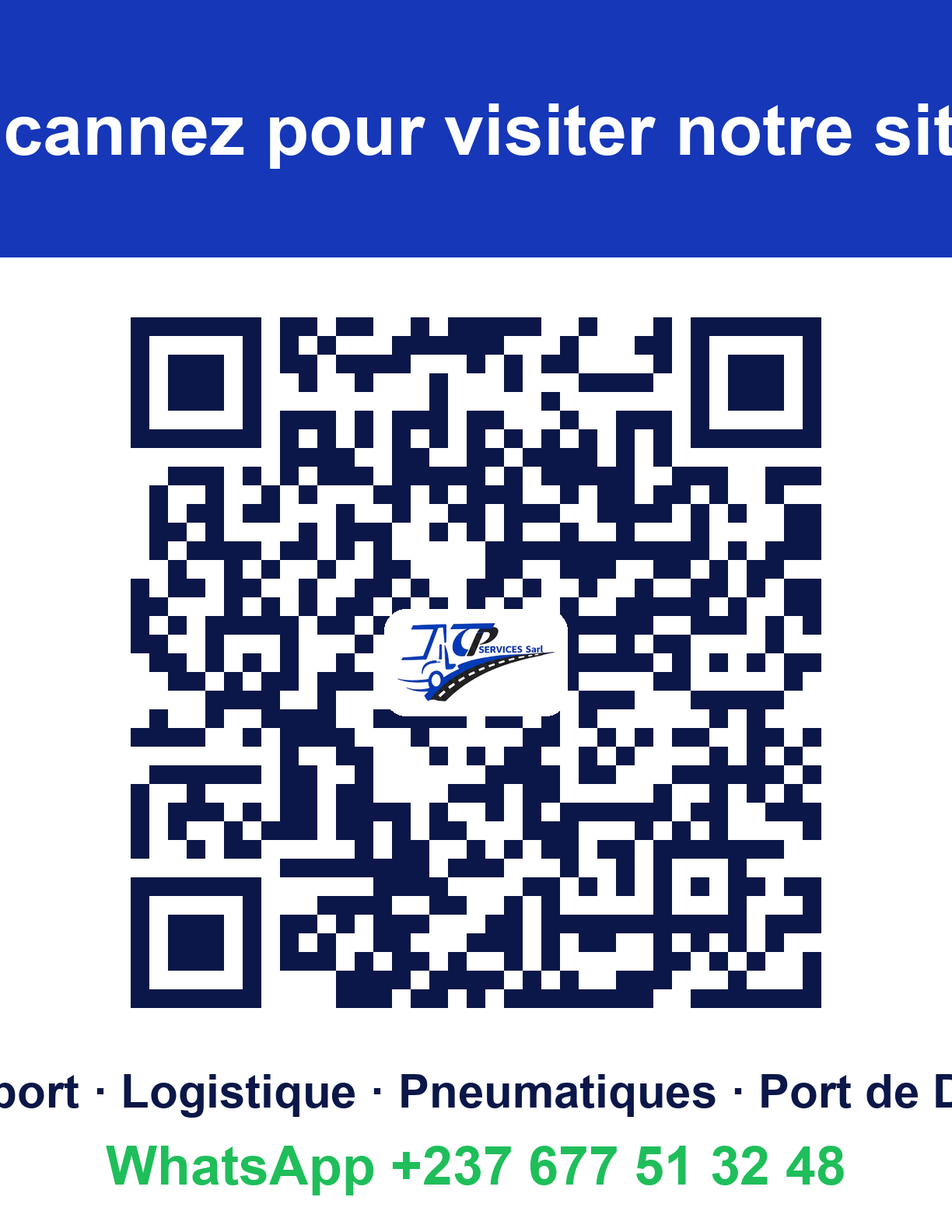
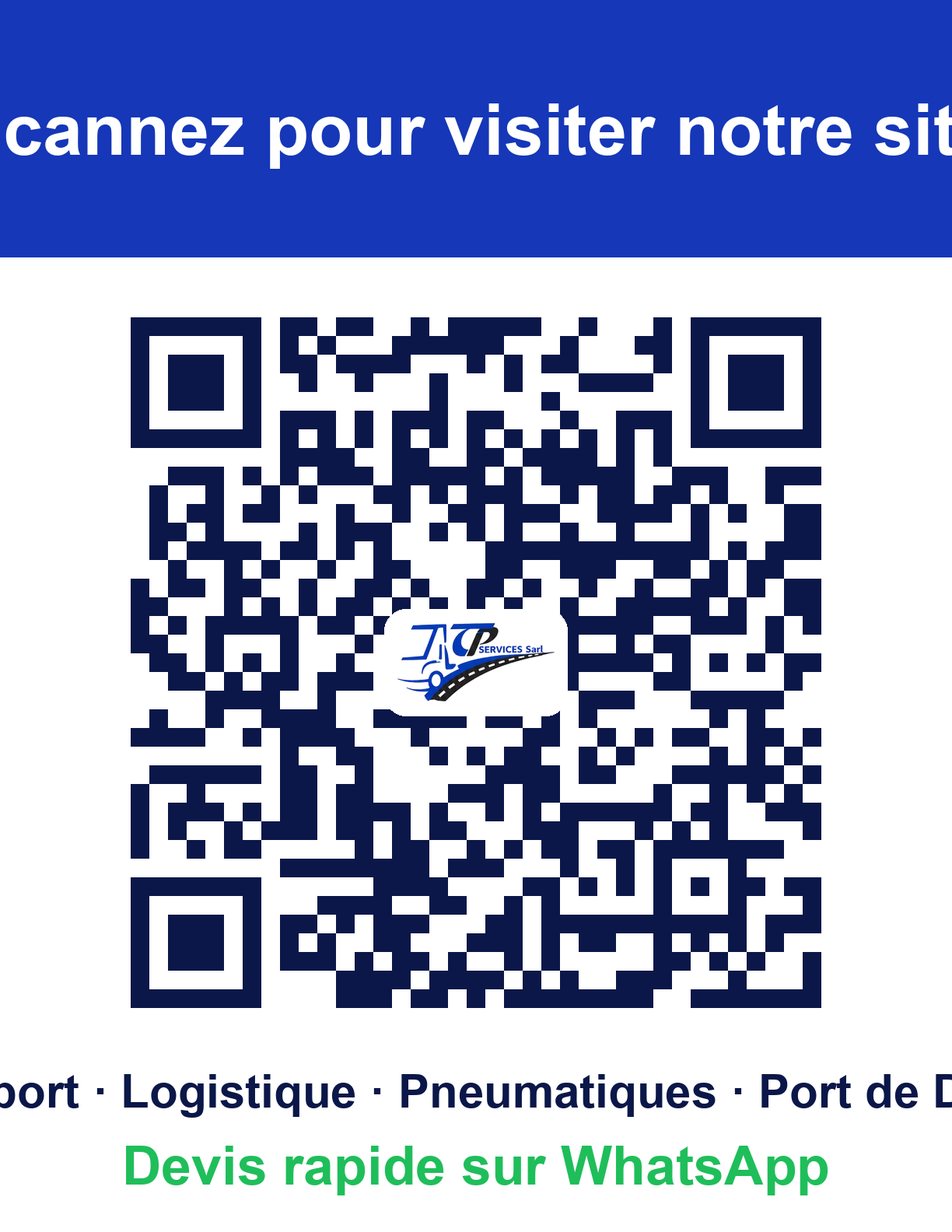
Coordonnées masquées : boutons WhatsApp / Appeler / E-mail (numéros et e-mail assemblés au clic), nouvel e-mail, affiche QR sans numéro

Changed region(s): [[0.0931, 0.928, 0.9003, 0.9899]]

diff --git a/js/assistant.js b/js/assistant.js
@@ -6,12 +6,12 @@ import { BIZ, SERVICES, FAQ, FOUNDER } from "./knowledge.js";
 
 const esc = (s) => String(s).replace(/[&<>"']/g, (c) => ({ "&": "&amp;", "<": "&lt;", ">": "&gt;", '"': "&quot;", "'": "&#39;" }[c]));
 const pick = (a) => a[Math.floor(Math.random() * a.length)];
-const wa = (text) => `https://wa.me/${BIZ.whatsapp}?text=${encodeURIComponent(text)}`;
+
 
 // UI words
 const T = {
-  fr: { waBtn: "Écrire sur WhatsApp", call: "Appeler", mail: "Envoyer un e-mail", map: "Itinéraire", more: "Voir le service", placeholder: "Posez votre question…", title: "Assistant TP & Fils", sub: "Répond tout de suite · FR / EN", note: "Pour un prix exact, nos équipes vous répondent sur WhatsApp ou au téléphone.", fab: "Une question ?", hello: "Bonjour et bienvenue chez <b>TP & Fils Services</b> ! 👋 Pneus, lubrifiants, vidange, garage, transport, camions grue… Je vous oriente. Que puis-je faire pour vous ?" },
-  en: { waBtn: "Message on WhatsApp", call: "Call", mail: "Send an email", map: "Directions", more: "See the service", placeholder: "Ask your question…", title: "TP & Fils Assistant", sub: "Replies instantly · FR / EN", note: "For an exact price, our team answers on WhatsApp or by phone.", fab: "Questions?", hello: "Hello and welcome to <b>TP & Fils Services</b>! 👋 Tires, lubricants, oil changes, garage, transport, crane trucks… I'll point you in the right direction. How can I help?" },
+  fr: { waBtn: "WhatsApp", call: "Appeler", mail: "E-mail", map: "Itinéraire", more: "Voir le service", placeholder: "Posez votre question…", title: "Assistant TP & Fils", sub: "Répond tout de suite · FR / EN", note: "Pour un prix exact, nos équipes vous répondent sur WhatsApp ou au téléphone.", fab: "Une question ?", hello: "Bonjour et bienvenue chez <b>TP & Fils Services</b> ! 👋 Pneus, lubrifiants, vidange, garage, transport, camions grue… Je vous oriente. Que puis-je faire pour vous ?" },
+  en: { waBtn: "WhatsApp", call: "Call", mail: "Email", map: "Directions", more: "See the service", placeholder: "Ask your question…", title: "TP & Fils Assistant", sub: "Replies instantly · FR / EN", note: "For an exact price, our team answers on WhatsApp or by phone.", fab: "Questions?", hello: "Hello and welcome to <b>TP & Fils Services</b>! 👋 Tires, lubricants, oil changes, garage, transport, crane trucks… I'll point you in the right direction. How can I help?" },
 };
 const CHIPS = {
   fr: { start: ["Nos services", "Prix des pneus", "Location camion grue", "Où êtes-vous ?", "Horaires"], after: ["Demander un devis", "Où êtes-vous ?", "Nos services"] },
@@ -20,7 +20,7 @@ const CHIPS = {
 
 const contactBtns = (L, topic) => {
   const msg = L === "fr" ? `Bonjour TP & Fils, je vous contacte depuis votre site web${topic ? ` au sujet de : ${topic}` : ""}.` : `Hello TP & Fils, I'm reaching out from your website${topic ? ` about: ${topic}` : ""}.`;
-  return `<div class="chat-actions"><a class="chat-btn chat-btn--wa" href="${wa(msg)}" target="_blank" rel="noopener">${T[L].waBtn}</a><a class="chat-btn chat-btn--ghost" href="tel:${BIZ.phones[0].tel}">${T[L].call}</a></div>`;
+  return `<div class="chat-actions"><a class="chat-btn chat-btn--wa" href="#contact" data-contact="wa" data-msg="${esc(msg)}">${T[L].waBtn}</a><a class="chat-btn chat-btn--ghost" href="#contact" data-contact="call">${T[L].call}</a><a class="chat-btn chat-btn--ghost" href="#contact" data-contact="mail">${T[L].mail}</a></div>`;
 };
 const svcName = (s, L) => s[L].name;
 
@@ -58,7 +58,7 @@ const INTENTS = [
   { id: "hours", re: /\b(horaires?|heures?|ouvert\w*|ferm\w*|hours?|open\w*|clos\w*|samedi|dimanche|saturday|sunday|week-?end|aujourd'hui|today|demain|tomorrow)\b/, w: 3,
     a: (L) => `${esc(BIZ.hours[L])}. ${L === "fr" ? "En dehors de ces heures ou en cas d'urgence, appelez-nous ou laissez un message WhatsApp." : "Outside these hours or in an emergency, call us or leave a WhatsApp message."}${contactBtns(L)}` },
   { id: "contact", re: /\b(contact\w*|t[ée]l[ée]phone|phone|num[ée]ro|number|appeler|call|joindre|reach|whatsapp|wa|email|e-mail|mail|courriel|joignable)\b/, w: 3,
-    a: (L) => `📞 ${BIZ.phones.map((p) => `<a href="tel:${p.tel}">${p.label}</a>`).join(" · ")}<br>💬 WhatsApp : <a href="${wa(L === "fr" ? "Bonjour TP & Fils" : "Hello TP & Fils")}" target="_blank" rel="noopener">${BIZ.phones.find((p) => p.whatsapp).label}</a><br>✉ <a href="mailto:${BIZ.email}">${BIZ.email}</a>${contactBtns(L)}` },
+    a: (L) => (L === "fr" ? "Le plus rapide, c'est WhatsApp 💬 Vous pouvez aussi nous appeler ou nous écrire un e-mail : touchez un bouton ci-dessous, votre application s'ouvre directement." : "WhatsApp is fastest 💬 You can also call or email us: tap a button below and your app opens directly.") + contactBtns(L) },
   { id: "founder", re: /\b(fondateur|founder|directeur|dg|patron|boss|owner|propri[ée]taire|talla|ceo|pdg|g[ée]rant)\b/, w: 3.2,
     a: (L) => L === "fr" ? `TP & FILS Services SARL a été fondée en ${BIZ.founded} par <b>M. ${FOUNDER.name}</b>, ${FOUNDER.fr.role}. Sous sa direction, l'entreprise est devenue une référence dans le transport, la logistique et les services au Port de Douala. Sa vision : un partenaire de confiance qui gère tout sous un même toit, des pneumatiques jusqu'au dédouanement.` : `TP & FILS Services SARL was founded in ${BIZ.founded} by <b>Mr. ${FOUNDER.name}</b>, ${FOUNDER.en.role}. Under his leadership, the company has become a reference in transport, logistics and services at the Port of Douala. His vision: a trusted partner that handles everything under one roof, from tires to customs clearance.` },
   { id: "about", re: /\b(qui (êtes|etes)|about|histoire|history|depuis|since|founded|cr[ée][ée]e?|fond[ée]e?|entreprise|company|employ[ée]s|staff|exp[ée]rience)\b/, w: 2.2,
@@ -68,7 +68,7 @@ const INTENTS = [
   { id: "pay", re: /\b(paiement|payer|payment|pay|mobile money|momo|orange money|om|esp[eè]ces|cash|carte|card|ch[eè]que|virement|transfer|cr[ée]dit|facture|invoice)\b/, w: 2.6,
     a: (L) => (L === "fr" ? "Pour les moyens de paiement et la facturation (particuliers comme entreprises), le plus simple est de voir directement avec nos équipes : elles vous confirment tout rapidement." : "For payment methods and invoicing (individuals or companies), it's easiest to check directly with our team: they'll confirm everything quickly.") + contactBtns(L, L === "fr" ? "le paiement" : "payment") },
   { id: "jobs", re: /\b(emploi|recrut\w*|job|jobs|travail|stage|internship|cv|candidature|hiring|career|carri[eè]re|postuler|apply)\b/, w: 3,
-    a: (L) => L === "fr" ? `Merci de votre intérêt pour TP & Fils ! Envoyez votre CV et une lettre de motivation à <a href="mailto:${BIZ.email}?subject=Candidature">${BIZ.email}</a>, en précisant le poste visé (mécanicien, chauffeur, etc.).` : `Thanks for your interest in TP & Fils! Send your CV and a cover letter to <a href="mailto:${BIZ.email}?subject=Job%20application">${BIZ.email}</a>, stating the role you're interested in (mechanic, driver, etc.).` },
+    a: (L) => L === "fr" ? `Merci de votre intérêt pour TP & Fils ! Envoyez votre CV et une lettre de motivation par e-mail, en précisant le poste visé (mécanicien, chauffeur, etc.).<div class="chat-actions"><a class="chat-btn" href="#contact" data-contact="mail" data-subject="Candidature">Envoyer ma candidature</a></div>` : `Thanks for your interest in TP & Fils! Send your CV and a cover letter by email, stating the role you're interested in (mechanic, driver, etc.).<div class="chat-actions"><a class="chat-btn" href="#contact" data-contact="mail" data-subject="Job application">Send my application</a></div>` },
   { id: "urgent", re: /\b(urgent\w*|urgence|emergency|vite|asap|maintenant|right now|bloqu[ée]|stuck|en panne|broke down|crev[ée]|flat)\b/, w: 3.2,
     a: (L) => (L === "fr" ? "Pas de panique, on est là 🙏 Appelez-nous directement ou écrivez sur WhatsApp en indiquant votre véhicule, le problème et votre position : nos équipes voient ce qu'elles peuvent faire au plus vite." : "Don't worry, we're here 🙏 Call us directly or message us on WhatsApp with your vehicle, the problem and your location: our team will see what they can do as fast as possible.") + contactBtns(L, L === "fr" ? "une urgence" : "an emergency") },
 ];

diff --git a/index.html b/index.html
@@ -23,9 +23,9 @@
   <!-- top strip: phones, email, hours -->
   <div class="topstrip">
     <div class="wrap topstrip__in">
-      <a href="https://wa.me/237677513248" target="_blank" rel="noopener">💬 WhatsApp +237 677 51 32 48</a>
-      <a href="tel:+237679575821" class="hide-sm">📞 +237 679 57 58 21</a>
-      <a href="mailto:tpfilsservices@gmail.com" class="hide-sm">✉ tpfilsservices@gmail.com</a>
+      <a href="#contact" data-contact="wa" data-i18n="top_wa">💬 WhatsApp</a>
+      <a href="#contact" data-contact="call">📞 <span data-i18n="top_call">Appeler</span></a>
+      <a href="#contact" data-contact="mail" class="hide-sm">✉ <span data-i18n="top_mail">E-mail</span></a>
       <span class="hide-xs" id="topHours">🕗 Lun – Ven 8h–18h · Sam 9h–16h</span>
     </div>
   </div>
@@ -43,7 +43,7 @@
       <div class="lang" role="group" aria-label="Langue / Language">
         <button data-lang="fr" class="is-on">FR</button><button data-lang="en">EN</button>
       </div>
-      <a class="btn btn--wa nav__cta" id="navWa" target="_blank" rel="noopener" data-i18n="cta_quote">Demander un devis</a>
+      <a class="btn btn--wa nav__cta" id="navWa" href="#contact" data-contact="wa" data-i18n="cta_quote">Demander un devis</a>
       <button class="nav__toggle" id="navToggle" aria-label="Menu"><span></span><span></span></button>
     </div>
   </header>
@@ -64,8 +64,8 @@
         <h1 data-i18n-html="hero_title">Votre partenaire de confiance,<br /><span>plus qu'un service, une solution.</span></h1>
         <p class="lead" data-i18n="hero_lead">Depuis 2014 au Port de Douala : transport routier national et international, logistique et entreposage, dédouanement, et spécialiste en pneumatique pour véhicules légers et poids lourds.</p>
         <div class="hero__ctas">
-          <a class="btn btn--wa btn--lg" id="heroWa" target="_blank" rel="noopener"><svg viewBox="0 0 24 24" aria-hidden="true"><path fill="currentColor" d="M12 2a10 10 0 0 0-8.6 15.1L2 22l5-1.3A10 10 0 1 0 12 2zm0 18.2c-1.5 0-3-.4-4.3-1.2l-.3-.2-3 .8.8-2.9-.2-.3A8.2 8.2 0 1 1 12 20.2zm4.5-6.1c-.2-.1-1.5-.7-1.7-.8-.2-.1-.4-.1-.6.1-.2.2-.7.8-.8 1-.1.2-.3.2-.5.1a6.7 6.7 0 0 1-3.3-2.9c-.3-.4.3-.4.8-1.4.1-.2 0-.3 0-.4l-.8-1.8c-.2-.5-.4-.4-.6-.4h-.5c-.2 0-.4.1-.6.3-.2.2-.8.8-.8 2s.8 2.3.9 2.5c.1.2 1.6 2.5 3.9 3.5 1.5.6 2 .7 2.7.6.4-.1 1.5-.6 1.7-1.2.2-.6.2-1.1.1-1.2l-.5-.3z"/></svg><span data-i18n="cta_wa">Écrire sur WhatsApp</span></a>
-          <a class="btn btn--light btn--lg" href="tel:+237677513248" data-i18n="cta_call">Appeler maintenant</a>
+          <a class="btn btn--wa btn--lg" id="heroWa" href="#contact" data-contact="wa"><svg viewBox="0 0 24 24" aria-hidden="true"><path fill="currentColor" d="M12 2a10 10 0 0 0-8.6 15.1L2 22l5-1.3A10 10 0 1 0 12 2zm0 18.2c-1.5 0-3-.4-4.3-1.2l-.3-.2-3 .8.8-2.9-.2-.3A8.2 8.2 0 1 1 12 20.2zm4.5-6.1c-.2-.1-1.5-.7-1.7-.8-.2-.1-.4-.1-.6.1-.2.2-.7.8-.8 1-.1.2-.3.2-.5.1a6.7 6.7 0 0 1-3.3-2.9c-.3-.4.3-.4.8-1.4.1-.2 0-.3 0-.4l-.8-1.8c-.2-.5-.4-.4-.6-.4h-.5c-.2 0-.4.1-.6.3-.2.2-.8.8-.8 2s.8 2.3.9 2.5c.1.2 1.6 2.5 3.9 3.5 1.5.6 2 .7 2.7.6.4-.1 1.5-.6 1.7-1.2.2-.6.2-1.1.1-1.2l-.5-.3z"/></svg><span data-i18n="cta_wa">Écrire sur WhatsApp</span></a>
+          <a class="btn btn--light btn--lg" href="#contact" data-contact="call" data-i18n="cta_call">Appeler maintenant</a>
         </div>
         <ul class="hero__stats">
           <li><b>2014</b><span data-i18n="stat_year">au service de Douala</span></li>
@@ -100,7 +100,7 @@
           <li data-i18n="feat_li3">Stockage, entreposage & distribution</li>
           <li data-i18n="feat_li4">Dédouanement & camions grue Hiab</li>
         </ul>
-        <a class="btn btn--wa" id="featWa" target="_blank" rel="noopener" data-i18n="feat_cta">Organiser un transport</a>
+        <a class="btn btn--wa" id="featWa" href="#contact" data-contact="wa" data-i18n="feat_cta">Organiser un transport</a>
       </div>
     </section>
 
@@ -142,8 +142,8 @@
           <p data-i18n="biz_body">Entretien de flotte, pneumatiques poids lourds, lubrifiants, levage, transport de marchandises et prestations industrielles : nous construisons une solution adaptée à votre activité.</p>
         </div>
         <div class="biz__cta">
-          <a class="btn btn--wa btn--lg" id="bizWa" target="_blank" rel="noopener" data-i18n="biz_cta">Discuter de mon projet</a>
-          <a class="btn btn--ghost-light" href="mailto:tpfilsservices@gmail.com?subject=Demande%20entreprise" data-i18n="biz_mail">Écrire un e-mail</a>
+          <a class="btn btn--wa btn--lg" id="bizWa" href="#contact" data-contact="wa" data-i18n="biz_cta">Discuter de mon projet</a>
+          <a class="btn btn--ghost-light" href="#contact" data-contact="mail" data-subject="Demande entreprise" data-i18n="biz_mail">Écrire un e-mail</a>
         </div>
       </div>
     </section>
@@ -202,9 +202,18 @@
           <h2 data-i18n="contact_title">Passez nous voir au Port de Douala</h2>
           <ul class="clist">
             <li><span>📍</span><div><b data-i18n="c_addr">Adresse</b><a id="cAddr" target="_blank" rel="noopener"></a><small>BP 4511 Douala, Littoral, Cameroun</small></div></li>
-            <li><span>💬</span><div><b>WhatsApp</b><a href="https://wa.me/237677513248" target="_blank" rel="noopener">+237 677 51 32 48</a></div></li>
-            <li><span>📞</span><div><b data-i18n="c_phone">Téléphone</b><a href="tel:+237677513248">+237 677 51 32 48</a><a href="tel:+237679575821">+237 679 57 58 21</a><a href="tel:+237697144397">+237 697 14 43 97</a><a href="tel:+237699517407">+237 699 51 74 07</a></div></li>
-            <li><span>✉</span><div><b>E-mail</b><a href="mailto:tpfilsservices@gmail.com">tpfilsservices@gmail.com</a></div></li>
+            <li><span>📲</span><div><b data-i18n="c_reach">Nous joindre</b>
+              <div class="cbtns">
+                <button class="btn btn--wa btn--sm" data-contact="wa" data-i18n="c_wa">WhatsApp</button>
+                <button class="btn btn--light btn--sm" data-contact="call" data-i18n="c_call">Appeler</button>
+                <button class="btn btn--light btn--sm" data-contact="mail" data-i18n="c_mail">E-mail</button>
+              </div>
+              <details class="lines"><summary data-i18n="c_lines">Autres lignes</summary><div class="cbtns">
+                <button class="btn btn--light btn--sm" data-contact="call" data-line="1"><span data-i18n="c_line">Ligne</span> 2</button>
+                <button class="btn btn--light btn--sm" data-contact="call" data-line="2"><span data-i18n="c_line">Ligne</span> 3</button>
+                <button class="btn btn--light btn--sm" data-contact="call" data-line="3"><span data-i18n="c_line">Ligne</span> 4</button>
+              </div></details>
+            </div></li>
             <li><span>🕗</span><div><b data-i18n="c_hours">Horaires</b><span id="cHours"></span></div></li>
           </ul>
           <div class="socials" id="socials"></div>
@@ -229,7 +238,7 @@
     <div class="wrap footer__in">
       <div class="footer__brand"><img src="assets/img/logo-tp-services-sm.png" alt="TP & FILS Services SARL" /><p class="footer__motto" data-i18n="f_motto">Toujours plus loin avec vous !</p><p data-i18n="f_slogan">Toujours à votre écoute pour une meilleure qualité de service.</p></div>
       <div><b data-i18n="f_services">Services</b><ul id="footServices"></ul></div>
-      <div><b>Contact</b><ul><li><a href="https://wa.me/237677513248" target="_blank" rel="noopener">WhatsApp +237 677 51 32 48</a></li><li><a href="tel:+237679575821">+237 679 57 58 21</a></li><li><a href="tel:+237697144397">+237 697 14 43 97</a></li><li><a href="mailto:tpfilsservices@gmail.com">tpfilsservices@gmail.com</a></li><li>BP 4511 Douala</li></ul></div>
+      <div><b>Contact</b><ul><li><a href="#contact" data-contact="wa">💬 WhatsApp</a></li><li><a href="#contact" data-contact="call">📞 <span data-i18n="c_call">Appeler</span></a></li><li><a href="#contact" data-contact="mail">✉ <span data-i18n="c_mail">E-mail</span></a></li><li>BP 4511 Douala</li></ul></div>
     </div>
     <div class="wrap footer__bottom">
       <span>© <span id="year"></span> TP & FILS Services SARL · Douala, Cameroun</span>

diff --git a/js/main.js b/js/main.js
@@ -1,15 +1,15 @@
 // Construit la page à partir de knowledge.js, gère FR/EN, le formulaire de devis (WhatsApp), le menu et l'assistant.
 import { BIZ, SERVICES, WHY, FAQ, FOUNDER, GALLERY } from "./knowledge.js";
 import { mountAssistant } from "./assistant.js";
+import { openContact } from "./contact.js";
 
 const $ = (id) => document.getElementById(id);
 const esc = (s) => String(s).replace(/[&<>"']/g, (c) => ({ "&": "&amp;", "<": "&lt;", ">": "&gt;", '"': "&quot;", "'": "&#39;" }[c]));
-const wa = (text) => `https://wa.me/${BIZ.whatsapp}?text=${encodeURIComponent(text)}`;
 
 // ---------------------------------------------------------------- translations (FR is the page's default text)
 const I18N = {
   en: {
-    nav_services: "Services", nav_why: "Why us", nav_gallery: "Gallery", hero_real: "Our real trucks, our real premises", gal_kicker: "Our facilities", gal_title: "On the ground, at the Port of Douala", gal_sub: "Our trucks, our tire workshop, our lubricants and our premises: what you'll find when you visit us.", nav_biz: "Businesses", nav_about: "About", nav_contact: "Contact", cta_quote: "Get a quote",
+    top_wa: "💬 WhatsApp", top_call: "Call", top_mail: "Email", c_reach: "Reach us", c_wa: "WhatsApp", c_call: "Call", c_mail: "Email", c_lines: "Other lines", c_line: "Line", nav_services: "Services", nav_why: "Why us", nav_gallery: "Gallery", hero_real: "Our real trucks, our real premises", gal_kicker: "Our facilities", gal_title: "On the ground, at the Port of Douala", gal_sub: "Our trucks, our tire workshop, our lubricants and our premises: what you'll find when you visit us.", nav_biz: "Businesses", nav_about: "About", nav_contact: "Contact", cta_quote: "Get a quote",
     hero_pill: "Transport · Logistics · Business services",
     hero_title: "Your trusted partner,<br /><span>more than a service, a solution.</span>",
     hero_lead: "At the Port of Douala since 2014: national and international road freight, logistics and warehousing, customs clearance, and tire specialists for cars and heavy trucks.",
@@ -99,8 +99,8 @@ function render() {
   $("topHours").textContent = `🕗 ${BIZ.hoursShort[L]}`;
   $("gallery").innerHTML = GALLERY.map((g, i) => `<button class="gal ${i === 0 ? "gal--big" : ""}" data-gal="${i}"><img src="assets/img/${g.img}" alt="${esc(g[L])}" loading="lazy" /><span>${esc(g[L])}</span></button>`).join("");
   const hello = L === "fr" ? "Bonjour TP & Fils, je souhaite un devis." : "Hello TP & Fils, I'd like a quote.";
-  ["navWa", "heroWa", "bizWa"].forEach((id) => ($(id).href = wa(hello)));
-  $("featWa").href = wa(L === "fr" ? "Bonjour TP & Fils, je souhaite organiser un transport de marchandises." : "Hello TP & Fils, I'd like to arrange a freight shipment.");
+  ["navWa", "heroWa", "bizWa"].forEach((id) => ($(id).dataset.msg = hello));
+  $("featWa").dataset.msg = (L === "fr" ? "Bonjour TP & Fils, je souhaite organiser un transport de marchandises." : "Hello TP & Fils, I'd like to arrange a freight shipment.");
   $("svcCount").textContent = SERVICES.length;
   $("founderRole").textContent = FOUNDER[L].role;
   $("founderText").textContent = FOUNDER[L].text;
@@ -121,7 +121,7 @@ function openService(id) {
   $("svcBody").innerHTML = `<button class="modal__x" data-close aria-label="Fermer">×</button>
     ${s.img ? `<div class="modal__img"><img src="assets/img/${s.img}" alt="" /></div>` : `<div class="modal__img modal__img--icon">${icon(s.icon)}</div>`}
     <div class="modal__copy"><p class="kicker">${L === "fr" ? "Service" : "Service"}</p><h2>${esc(t.name)}</h2><p>${esc(t.body)}</p>
-    <div class="modal__ctas"><a class="btn btn--wa" target="_blank" rel="noopener" href="${wa((L === "fr" ? "Bonjour TP & Fils, je suis intéressé(e) par : " : "Hello TP & Fils, I'm interested in: ") + t.name)}">${L === "fr" ? "Demander un devis" : "Get a quote"}</a><a class="btn btn--light" href="tel:${BIZ.phones[0].tel}">${L === "fr" ? "Appeler" : "Call"}</a></div></div>`;
+    <div class="modal__ctas"><a class="btn btn--wa" href="#contact" data-contact="wa" data-msg="${esc((L === "fr" ? "Bonjour TP & Fils, je suis intéressé(e) par : " : "Hello TP & Fils, I'm interested in: ") + t.name)}">${L === "fr" ? "Demander un devis" : "Get a quote"}</a><a class="btn btn--light" href="#contact" data-contact="call">${L === "fr" ? "Appeler" : "Call"}</a></div></div>`;
   $("svcModal").showModal();
 }
 document.addEventListener("click", (e) => {
@@ -147,10 +147,10 @@ function composeQuote() {
     ? `Bonjour TP & Fils,\nJe souhaite un devis.\n\nNom : ${f.get("name")}${f.get("company") ? `\nEntreprise : ${f.get("company")}` : ""}\nTéléphone : ${f.get("phone")}\nService : ${f.get("service")}\n\n${f.get("msg")}`
     : `Hello TP & Fils,\nI'd like a quote.\n\nName: ${f.get("name")}${f.get("company") ? `\nCompany: ${f.get("company")}` : ""}\nPhone: ${f.get("phone")}\nService: ${f.get("service")}\n\n${f.get("msg")}`);
 }
-$("quoteForm").addEventListener("submit", (e) => { e.preventDefault(); window.open(wa(composeQuote()), "_blank", "noopener"); });
+$("quoteForm").addEventListener("submit", (e) => { e.preventDefault(); openContact("wa", { msg: composeQuote() }); });
 $("sendMail").addEventListener("click", () => {
   if (!$("quoteForm").reportValidity()) return;
-  location.href = `mailto:${BIZ.email}?subject=${encodeURIComponent(lang === "fr" ? "Demande de devis (site web)" : "Quote request (website)")}&body=${encodeURIComponent(composeQuote())}`;
+  openContact("mail", { subject: lang === "fr" ? "Demande de devis (site web)" : "Quote request (website)", body: composeQuote() });
 });
 
 // menu + header

diff --git a/js/contact.js b/js/contact.js
@@ -1,0 +1,29 @@
+// Contact actions without showing numbers or email on the page.
+// Buttons carry data-contact="wa" | "call" | "mail" (+ optional data-msg, data-subject, data-line).
+// The numbers and the email are assembled only when someone clicks, so they never appear in the page
+// text or HTML (keeps them away from spam bots that scrape websites).
+const parts = {
+  wa: ["237", "677", "51", "32", "48"],                 // WhatsApp + main line
+  lines: [["237", "677", "51", "32", "48"], ["237", "679", "57", "58", "21"], ["237", "697", "14", "43", "97"], ["237", "699", "51", "74", "07"]],
+  mail: ["tpfilsdg", "gmail.com"],
+};
+const join = (a) => a.join("");
+
+export const waUrl = (msg = "") => `https://wa.me/${join(parts.wa)}${msg ? `?text=${encodeURIComponent(msg)}` : ""}`;
+export const telUrl = (line = 0) => `tel:+${join(parts.lines[line] || parts.lines[0])}`;
+export const mailUrl = (subject = "", body = "") => `mailto:${parts.mail.join("@")}${subject || body ? `?${[subject && `subject=${encodeURIComponent(subject)}`, body && `body=${encodeURIComponent(body)}`].filter(Boolean).join("&")}` : ""}`;
+export const lineCount = parts.lines.length;
+
+/** Open the right app for a contact button. */
+export function openContact(kind, { msg = "", subject = "", body = "", line = 0 } = {}) {
+  if (kind === "wa") window.open(waUrl(msg), "_blank", "noopener");
+  else if (kind === "call") location.href = telUrl(line);
+  else if (kind === "mail") location.href = mailUrl(subject, body);
+}
+
+document.addEventListener("click", (e) => {
+  const el = e.target.closest("[data-contact]");
+  if (!el) return;
+  e.preventDefault();
+  openContact(el.dataset.contact, { msg: el.dataset.msg || "", subject: el.dataset.subject || "", body: el.dataset.body || "", line: Number(el.dataset.line || 0) });
+});

diff --git a/js/knowledge.js b/js/knowledge.js
@@ -6,14 +6,6 @@ export const BIZ = {
   name: "TP & FILS Services SARL",
   short: "TP & Fils",
   founded: 2014,
-  phones: [
-    { label: "+237 677 51 32 48", tel: "+237677513248", wa: "237677513248", whatsapp: true },
-    { label: "+237 679 57 58 21", tel: "+237679575821" },
-    { label: "+237 697 14 43 97", tel: "+237697144397" },
-    { label: "+237 699 51 74 07", tel: "+237699517407" },
-  ],
-  whatsapp: "237677513248",
-  email: "tpfilsservices@gmail.com",
   address: { fr: "Zone Portuaire de Douala, entre la Direction Générale de BRÖLI et le Garage SOCOMAR", en: "Douala Port Zone, between BRÖLI headquarters and the SOCOMAR garage" },
   po: "BP 4511 Douala, Littoral, Cameroun",
   maps: "https://www.google.com/maps/search/?api=1&query=TP%20%26%20FILS%20Services%20SARL%20Douala",

diff --git a/css/styles.css b/css/styles.css
@@ -304,3 +304,8 @@ blockquote { margin: 22px 0 0; padding: 16px 20px; border-left: 4px solid var(--
 .founder__sig { font: italic 600 clamp(1.6rem, 3.4vw, 2.3rem) Georgia, "Times New Roman", serif; color: var(--navy); border-top: 2px solid var(--yellow); padding-top: 8px; }
 .founder__place { font-size: .85rem; color: var(--muted); font-weight: 600; }
 @media (max-width: 860px) { .founder__in { grid-template-columns: 1fr; } .founder__ring { width: min(320px, 100%); } }
+/* contact buttons (numbers & email hidden behind them) */
+.cbtns { display: flex; flex-wrap: wrap; gap: 8px; margin-top: 6px; }
+.lines { margin-top: 8px; }
+.lines summary { cursor: pointer; font: 600 .85rem var(--body); color: var(--blue-2); }
+.btn--sm { padding: 8px 14px; font-size: .85rem; border-radius: 10px; }

diff --git a/tests/contact-links.html b/tests/contact-links.html
@@ -1,0 +1,5 @@
+<!DOCTYPE html><meta charset="utf-8"><script type="module">
+// Checks the links each contact button builds.
+import { waUrl, telUrl, mailUrl } from "../js/contact.js";
+fetch("/log", { method: "POST", body: [waUrl("Bonjour TP & Fils"), telUrl(0), telUrl(1), telUrl(2), telUrl(3), mailUrl(), mailUrl("Demande entreprise"), mailUrl("Devis", "Nom : Test")].join("\n") });
+</script>

diff --git a/qr/make_qr.py b/qr/make_qr.py
@@ -27,7 +27,7 @@ card = Image.new("RGB", (W + 2 * pad, W + 600), (255, 255, 255)); d = ImageDraw.
 d.rectangle((0, 0, card.width, 330), fill=(21, 55, 184))
 for text, size, y, color in [("Scannez pour visiter notre site", 92, 115, (255, 255, 255)),
                              ("Transport · Logistique · Pneumatiques · Port de Douala", 60, W + 385, (10, 23, 72)),
-                             ("WhatsApp +237 677 51 32 48", 70, W + 475, (31, 190, 90))]:
+                             ("Devis rapide sur WhatsApp", 70, W + 475, (31, 190, 90))]:
     f = font(size); d.text(((card.width - d.textlength(text, font=f)) / 2, y), text, font=f, fill=color)
 card.paste(img.convert("RGB"), (pad, 360))
 card.save(os.path.join(HERE, "qr-tpfils-affiche.png"))

diff --git a/README.md b/README.md
@@ -20,7 +20,7 @@ Toutes les informations (services, téléphones, adresse, horaires, FAQ, fondate
 - 3 photos d'illustration Wikimedia Commons (port de Douala, chargement, vidange), crédits en bas de page.
 
 ## Horaires & contact
-Lundi – Vendredi 8h–18h · Samedi 9h–16h (heure du Cameroun). WhatsApp : +237 677 51 32 48.
+Lundi – Vendredi 8h–18h · Samedi 9h–16h (heure du Cameroun). Téléphones et e-mail ne sont pas affichés en clair : les boutons WhatsApp / Appeler / E-mail ouvrent directement l’application (voir `js/contact.js`).
 
 ## Mise en ligne sur Google
 La ligne `<meta name="robots" content="noindex, nofollow">` dans `index.html` cache le site des moteurs de recherche pendant l'aperçu. La supprimer une fois le site validé.
